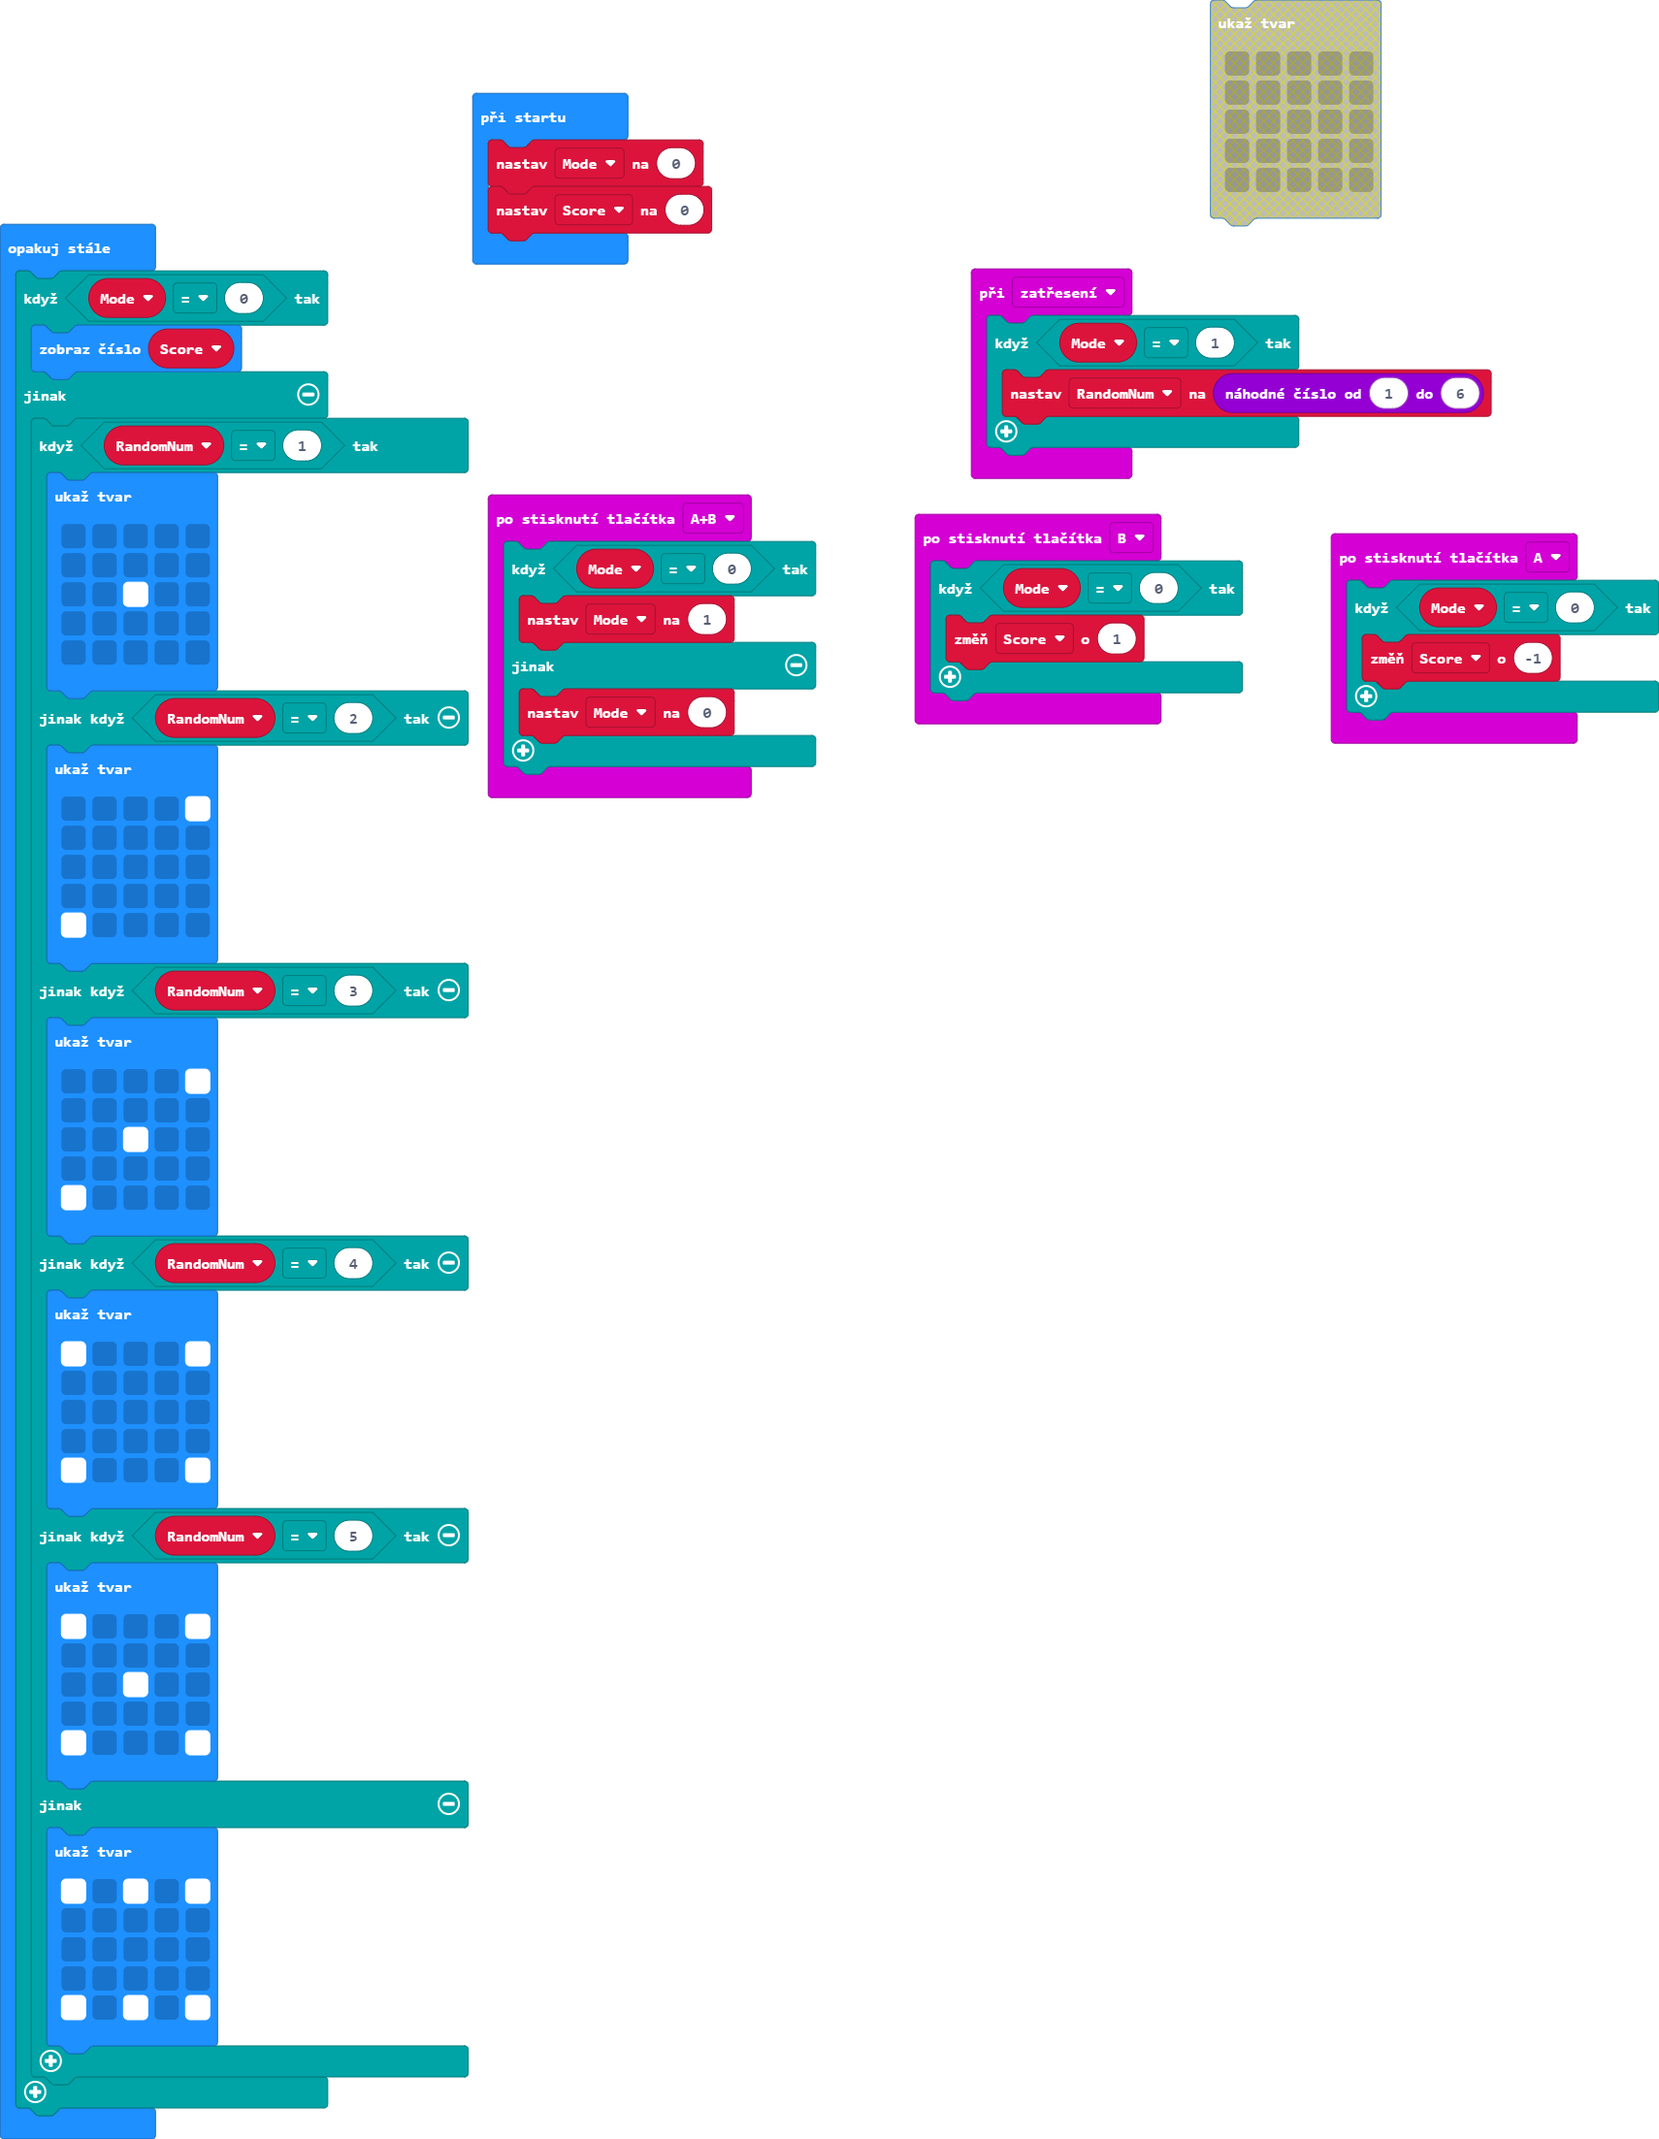
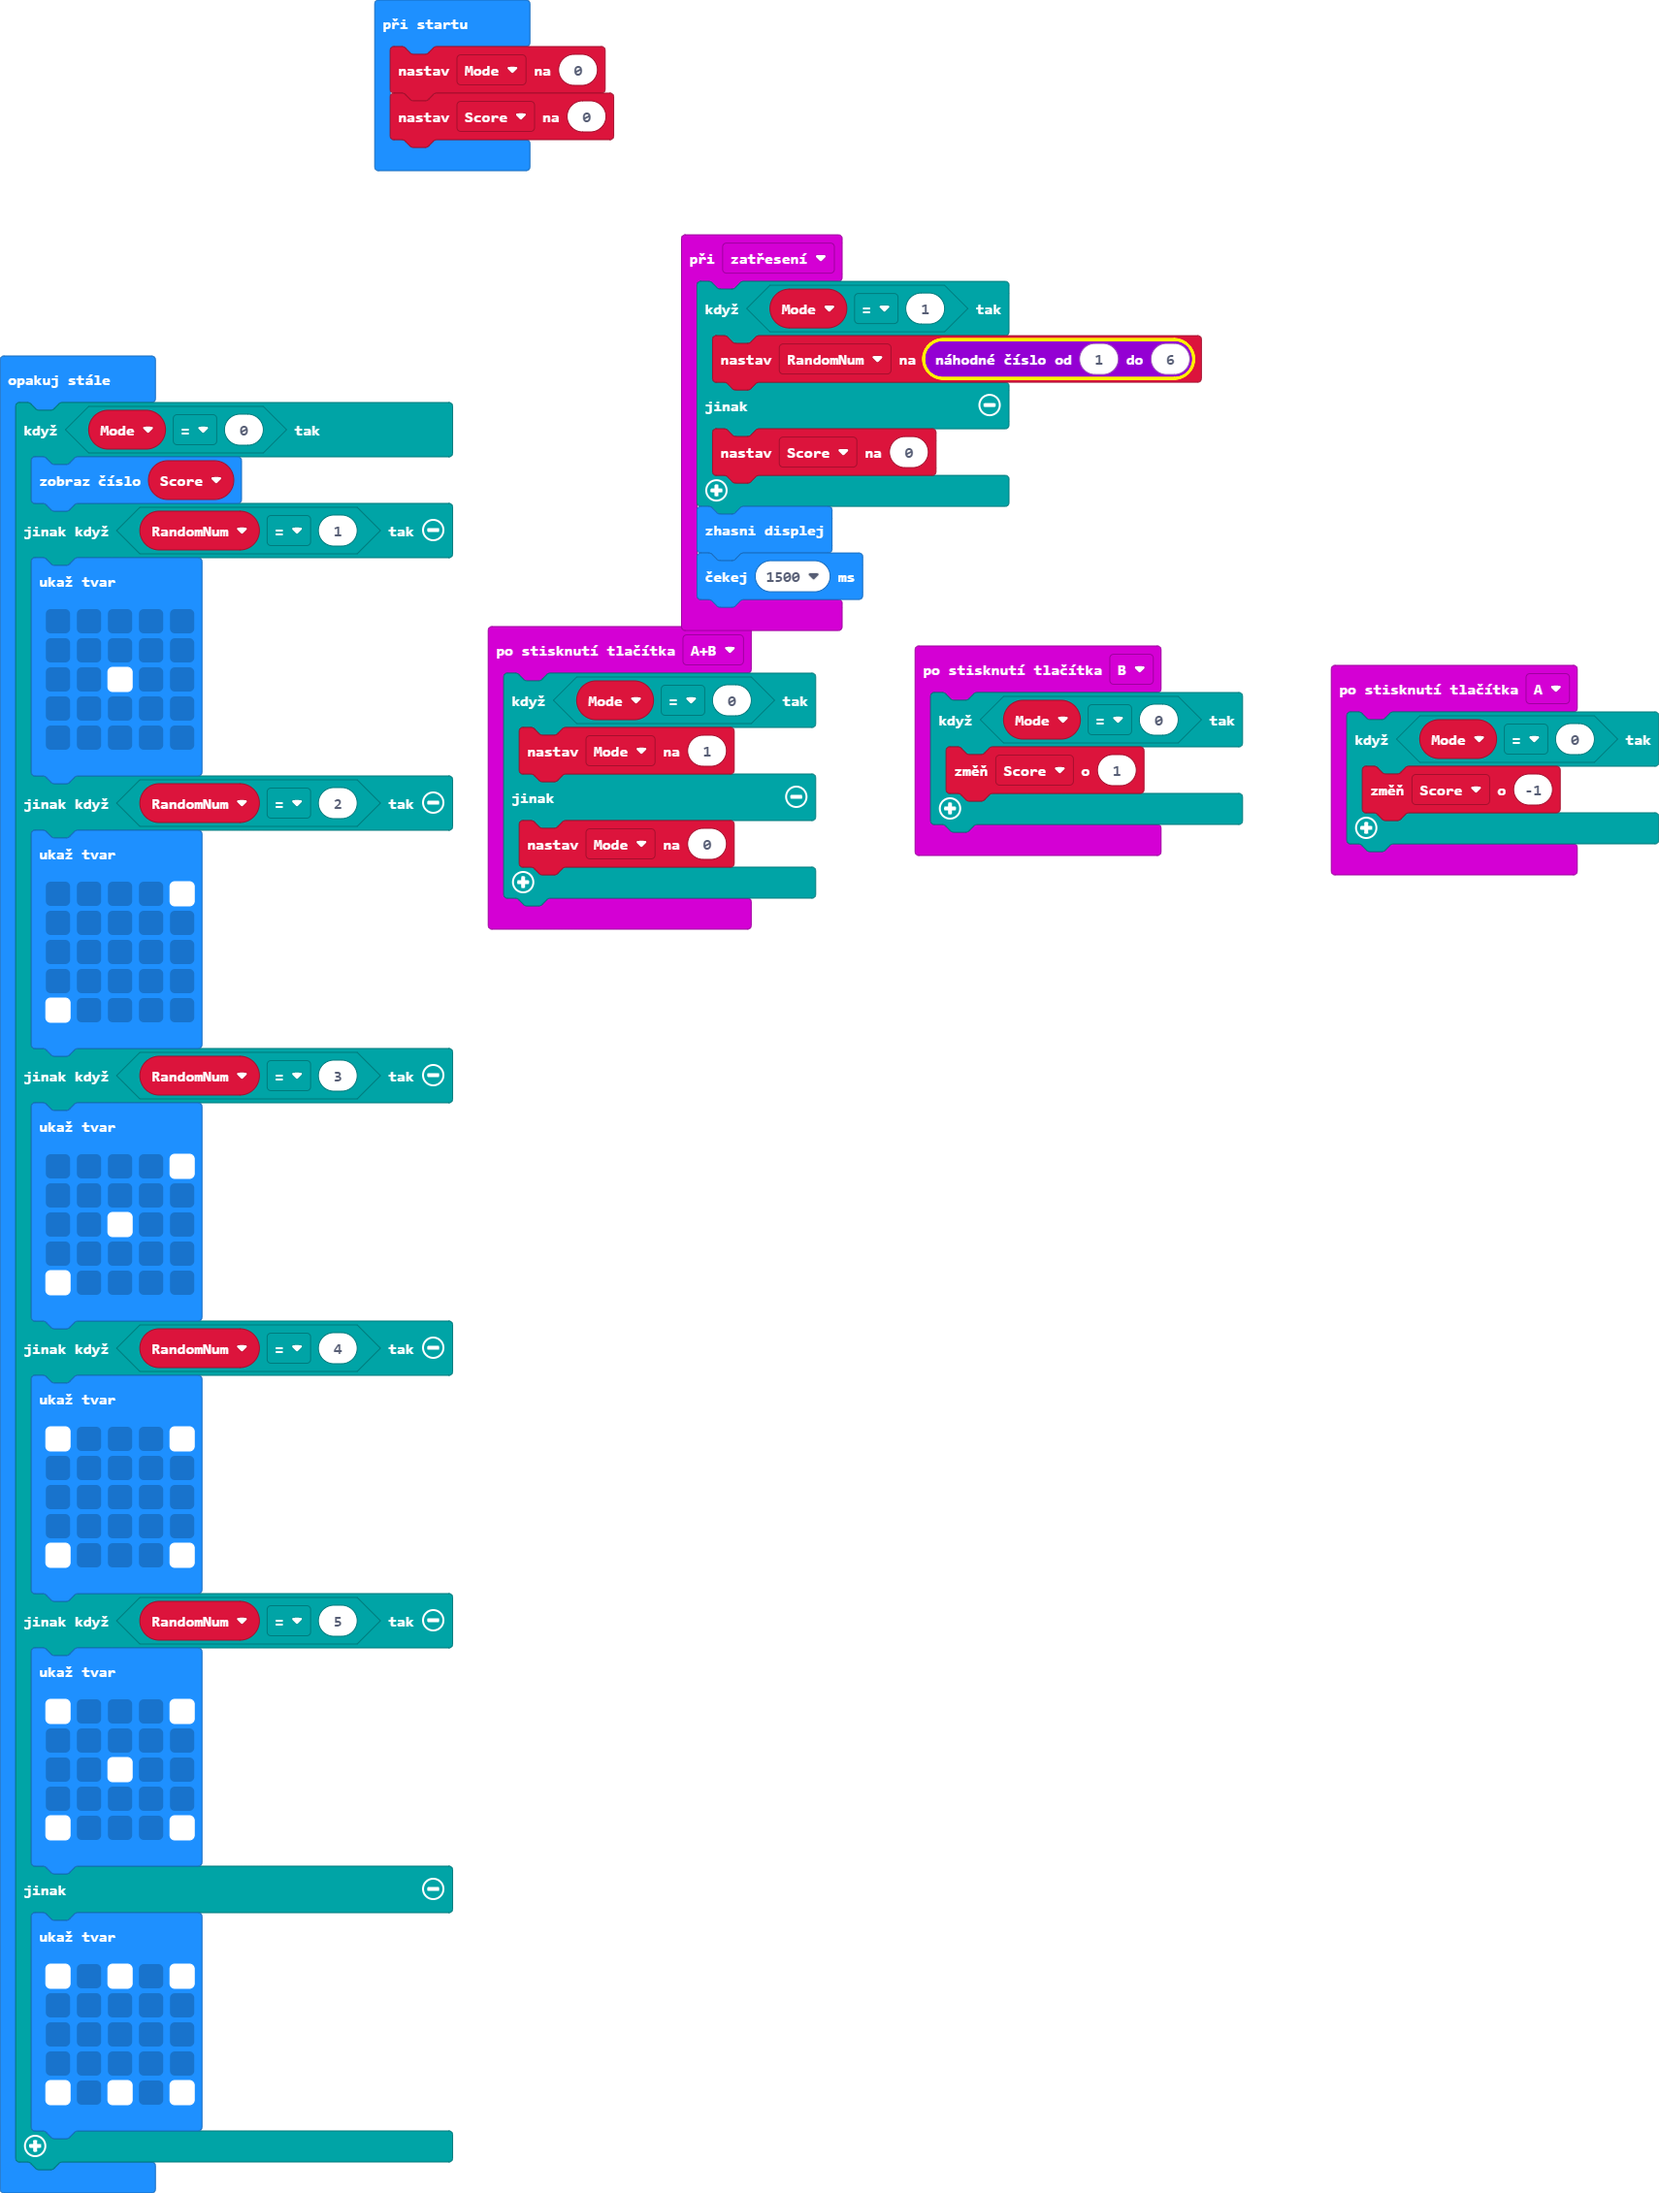
Při hození kostkou nyní micro bit na chvíli zhasne

Changed region(s): [[0.0, 0.0, 0.8988, 0.9868], [0.7749, 0.2467, 1.0, 0.4009]]

diff --git a/main.ts b/main.ts
@@ -18,64 +18,67 @@ input.onButtonPressed(Button.B, function () {
 input.onGesture(Gesture.Shake, function () {
     if (Mode == 1) {
         RandomNum = randint(1, 6)
+    } else {
+        Score = 0
     }
+    basic.clearScreen()
+    basic.pause(1500)
 })
 let RandomNum = 0
+let Score = 0
 let Mode = 0
 Mode = 0
-let Score = 0
+Score = 0
 basic.forever(function () {
     if (Mode == 0) {
         basic.showNumber(Score)
+    } else if (RandomNum == 1) {
+        basic.showLeds(`
+            . . . . .
+            . . . . .
+            . . # . .
+            . . . . .
+            . . . . .
+            `)
+    } else if (RandomNum == 2) {
+        basic.showLeds(`
+            . . . . #
+            . . . . .
+            . . . . .
+            . . . . .
+            # . . . .
+            `)
+    } else if (RandomNum == 3) {
+        basic.showLeds(`
+            . . . . #
+            . . . . .
+            . . # . .
+            . . . . .
+            # . . . .
+            `)
+    } else if (RandomNum == 4) {
+        basic.showLeds(`
+            # . . . #
+            . . . . .
+            . . . . .
+            . . . . .
+            # . . . #
+            `)
+    } else if (RandomNum == 5) {
+        basic.showLeds(`
+            # . . . #
+            . . . . .
+            . . # . .
+            . . . . .
+            # . . . #
+            `)
     } else {
-        if (RandomNum == 1) {
-            basic.showLeds(`
-                . . . . .
-                . . . . .
-                . . # . .
-                . . . . .
-                . . . . .
-                `)
-        } else if (RandomNum == 2) {
-            basic.showLeds(`
-                . . . . #
-                . . . . .
-                . . . . .
-                . . . . .
-                # . . . .
-                `)
-        } else if (RandomNum == 3) {
-            basic.showLeds(`
-                . . . . #
-                . . . . .
-                . . # . .
-                . . . . .
-                # . . . .
-                `)
-        } else if (RandomNum == 4) {
-            basic.showLeds(`
-                # . . . #
-                . . . . .
-                . . . . .
-                . . . . .
-                # . . . #
-                `)
-        } else if (RandomNum == 5) {
-            basic.showLeds(`
-                # . . . #
-                . . . . .
-                . . # . .
-                . . . . .
-                # . . . #
-                `)
-        } else {
-            basic.showLeds(`
-                # . # . #
-                . . . . .
-                . . . . .
-                . . . . .
-                # . # . #
-                `)
-        }
+        basic.showLeds(`
+            # . # . #
+            . . . . .
+            . . . . .
+            . . . . .
+            # . # . #
+            `)
     }
 })

diff --git a/main.py b/main.py
@@ -1,0 +1,85 @@
+def on_button_pressed_a():
+    global Score
+    if Mode == 0:
+        Score += -1
+input.on_button_pressed(Button.A, on_button_pressed_a)
+
+def on_button_pressed_ab():
+    global Mode
+    if Mode == 0:
+        Mode = 1
+    else:
+        Mode = 0
+input.on_button_pressed(Button.AB, on_button_pressed_ab)
+
+def on_button_pressed_b():
+    global Score
+    if Mode == 0:
+        Score += 1
+input.on_button_pressed(Button.B, on_button_pressed_b)
+
+def on_gesture_shake():
+    global RandomNum
+    if Mode == 1:
+        RandomNum = randint(1, 6)
+    else:
+        pass
+input.on_gesture(Gesture.SHAKE, on_gesture_shake)
+
+RandomNum = 0
+Score = 0
+Mode = 0
+Mode = 0
+
+def on_forever():
+    if Mode == 0:
+        basic.show_number(Score)
+    elif RandomNum == 1:
+        basic.show_leds("""
+            . . . . .
+                        . . . . .
+                        . . # . .
+                        . . . . .
+                        . . . . .
+        """)
+    elif RandomNum == 2:
+        basic.show_leds("""
+            . . . . #
+                        . . . . .
+                        . . . . .
+                        . . . . .
+                        # . . . .
+        """)
+    elif RandomNum == 3:
+        basic.show_leds("""
+            . . . . #
+                        . . . . .
+                        . . # . .
+                        . . . . .
+                        # . . . .
+        """)
+    elif RandomNum == 4:
+        basic.show_leds("""
+            # . . . #
+                        . . . . .
+                        . . . . .
+                        . . . . .
+                        # . . . #
+        """)
+    elif RandomNum == 5:
+        basic.show_leds("""
+            # . . . #
+                        . . . . .
+                        . . # . .
+                        . . . . .
+                        # . . . #
+        """)
+    else:
+        basic.show_leds("""
+            # . # . #
+                        . . . . .
+                        . . . . .
+                        . . . . .
+                        # . # . #
+        """)
+basic.forever(on_forever)
